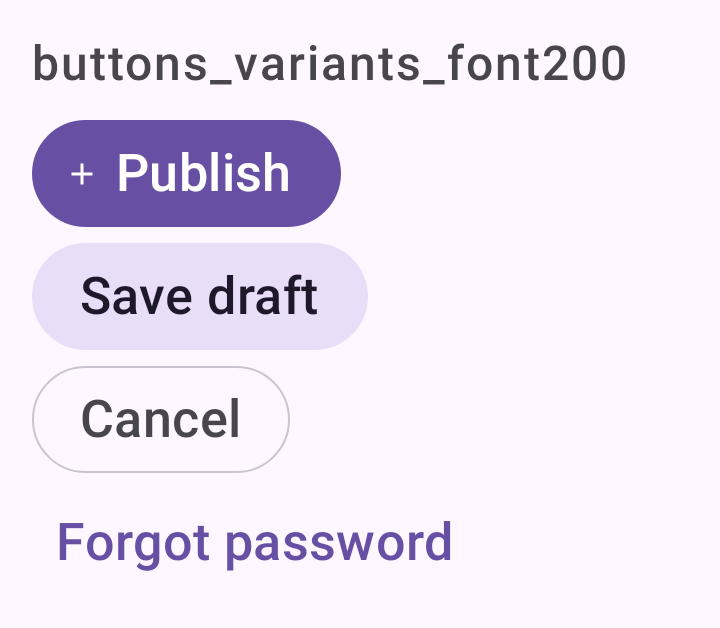
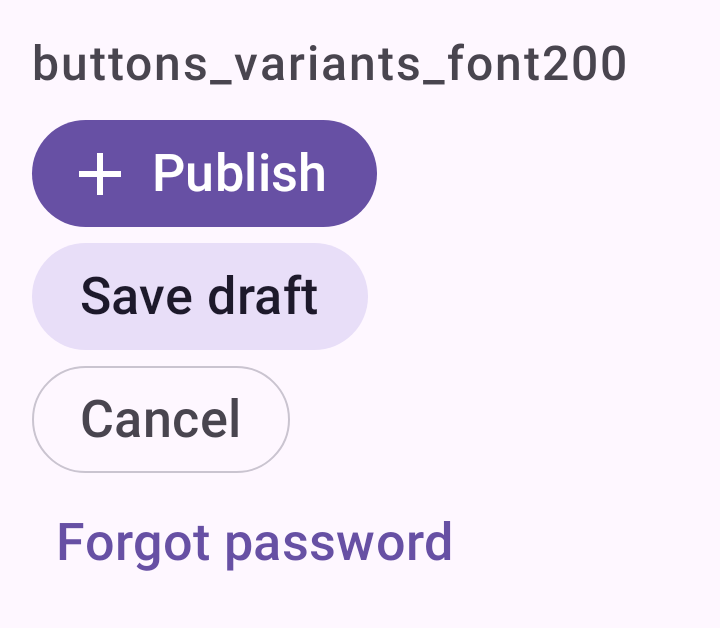
Release 0.1.5: diálogo com a ação segura em destaque e ícones de botão que crescem com a fonte

Changed region(s): [[0.0917, 0.1815, 0.55, 0.3631]]

diff --git a/components/src/main/kotlin/io/github/romulomga/dskit/overlays/DSAlertDialog.kt b/components/src/main/kotlin/io/github/romulomga/dskit/overlays/DSAlertDialog.kt
@@ -1,11 +1,17 @@
 package io.github.romulomga.dskit
 
+import androidx.compose.foundation.layout.Arrangement
+import androidx.compose.foundation.layout.Column
+import androidx.compose.foundation.layout.fillMaxWidth
+import androidx.compose.foundation.rememberScrollState
+import androidx.compose.foundation.verticalScroll
 import androidx.compose.material3.AlertDialog
 import androidx.compose.material3.Icon
 import androidx.compose.material3.Text
 import androidx.compose.runtime.Composable
 import androidx.compose.ui.Modifier
 import androidx.compose.ui.graphics.vector.ImageVector
+import androidx.compose.ui.platform.LocalDensity
 
 /**
  * Diálogo de alerta do Material 3: título, mensagem opcional, a ação de confirmar e, se houver, a de
@@ -16,8 +22,15 @@ import androidx.compose.ui.graphics.vector.ImageVector
  * Quem chama controla a visibilidade: mostre o diálogo enquanto um estado estiver ligado e desligue-o em
  * [onDismissRequest] e depois de [onConfirm].
  *
+ * A mensagem rola se não couber. Os botões ficam lado a lado; com a confirmação em destaque, ou com fonte grande
+ * (a partir de 150%), vão empilhados em largura cheia, a confirmação em cima, para nenhum sair cortado.
+ *
  * @param destructive pinta a confirmação na cor de erro ("Excluir", "Sair da conta").
  * @param dismissText rótulo de cancelar; `null` deixa só a confirmação.
+ * @param onDismiss o que o botão de cancelar faz; por padrão, o mesmo que tocar fora ([onDismissRequest]). Separe
+ *   os dois quando tocar fora deve ser a escolha segura e o botão de cancelar não ("Continuar no alerta" confirma
+ *   e é o padrão; "Fechar" é o botão de baixo).
+ * @param emphasizeConfirm a confirmação vira um botão cheio, a ação principal: use quando ela é a escolha segura.
  * @param icon ícone opcional acima do título, que então fica centralizado.
  */
 @Composable
@@ -30,29 +43,46 @@ public fun DSAlertDialog(
     message: String? = null,
     dismissText: String? = null,
     icon: ImageVector? = null,
-    destructive: Boolean = false
+    destructive: Boolean = false,
+    onDismiss: () -> Unit = onDismissRequest,
+    emphasizeConfirm: Boolean = false
 ) {
     val haptics = rememberDSHaptics()
+    val stacked = emphasizeConfirm || LocalDensity.current.fontScale >= StackedFontScale
+    val confirm: () -> Unit = {
+        if (destructive) haptics.warning()
+        onConfirm()
+    }
 
     AlertDialog(
         onDismissRequest = onDismissRequest,
         modifier = modifier,
         confirmButton = {
-            DSTextButton(
-                text = confirmText,
-                onClick = {
-                    if (destructive) haptics.warning()
-                    onConfirm()
-                },
-                destructive = destructive
-            )
+            if (stacked) {
+                Column(modifier = Modifier.fillMaxWidth(), verticalArrangement = Arrangement.spacedBy(DSSpacing.xs)) {
+                    if (emphasizeConfirm) {
+                        DSButton(confirmText, onClick = confirm, modifier = Modifier.fillMaxWidth(), destructive = destructive)
+                    } else {
+                        DSTextButton(confirmText, onClick = confirm, modifier = Modifier.fillMaxWidth(), destructive = destructive)
+                    }
+
+                    if (dismissText != null) {
+                        DSTextButton(dismissText, onClick = onDismiss, modifier = Modifier.fillMaxWidth())
+                    }
+                }
+            } else {
+                DSTextButton(text = confirmText, onClick = confirm, destructive = destructive)
+            }
         },
-        dismissButton = dismissText?.let { { DSTextButton(it, onClick = onDismissRequest) } },
+        dismissButton = if (stacked) null else dismissText?.let { { DSTextButton(it, onClick = onDismiss) } },
         icon = icon?.let { { Icon(it, contentDescription = null) } },
         title = { Text(title) },
-        text = message?.let { { Text(it) } }
+        text = message?.let { { Text(it, modifier = Modifier.verticalScroll(rememberScrollState())) } }
     )
 }
+
+/** A partir desta escala de fonte os botões do diálogo empilham. */
+private const val StackedFontScale = 1.5f
 
 @DSPreviews
 @Composable
@@ -65,6 +95,23 @@ private fun DSAlertDialogPreview() {
             dismissText = "Cancel",
             destructive = true,
             onConfirm = {},
+            onDismissRequest = {}
+        )
+    }
+}
+
+@DSPreviews
+@Composable
+private fun DSAlertDialogEmphasisPreview() {
+    DSPreviewContainer("Alert dialog, safe action emphasized") {
+        DSAlertDialog(
+            title = "Close the alert?",
+            message = "If you haven't sent it yet, nobody knows.",
+            confirmText = "Keep the alert",
+            dismissText = "I'm fine, close",
+            emphasizeConfirm = true,
+            onConfirm = {},
+            onDismiss = {},
             onDismissRequest = {}
         )
     }

diff --git a/components/src/main/kotlin/io/github/romulomga/dskit/buttons/DSButton.kt b/components/src/main/kotlin/io/github/romulomga/dskit/buttons/DSButton.kt
@@ -23,6 +23,7 @@ import androidx.compose.ui.Alignment
 import androidx.compose.ui.Modifier
 import androidx.compose.ui.draw.alpha
 import androidx.compose.ui.graphics.vector.ImageVector
+import androidx.compose.ui.platform.LocalDensity
 import androidx.compose.ui.res.stringResource
 import androidx.compose.ui.semantics.disabled
 import androidx.compose.ui.semantics.semantics
@@ -175,13 +176,18 @@ public fun DSTextButton(
     }
 }
 
-/** Texto e ícone; carregando, ficam invisíveis (guardam a largura) sob o indicador. */
+/**
+ * Texto e ícone; carregando, ficam invisíveis (guardam a largura) sob o indicador. O ícone cresce com a fonte, até o
+ * dobro, para não ficar miúdo ao lado de um texto grande.
+ */
 @Composable
 private fun ButtonContent(text: String, icon: ImageVector?, loading: Boolean) {
+    val iconSize = ButtonDefaults.IconSize * LocalDensity.current.fontScale.coerceIn(1f, MaxIconScale)
+
     Box(contentAlignment = Alignment.Center) {
         Row(modifier = Modifier.alpha(if (loading) 0f else 1f), verticalAlignment = Alignment.CenterVertically) {
             if (icon != null) {
-                Icon(icon, contentDescription = null, modifier = Modifier.size(ButtonDefaults.IconSize))
+                Icon(icon, contentDescription = null, modifier = Modifier.size(iconSize))
 
                 Spacer(Modifier.width(ButtonDefaults.IconSpacing))
             }
@@ -198,6 +204,8 @@ private fun ButtonContent(text: String, icon: ImageVector?, loading: Boolean) {
         }
     }
 }
+
+private const val MaxIconScale = 2f
 
 private fun contentPadding(icon: ImageVector?): PaddingValues =
     if (icon == null) ButtonDefaults.ContentPadding else ButtonDefaults.ButtonWithIconContentPadding

diff --git a/components/src/test/kotlin/io/github/romulomga/dskit/DialogScreenshotTest.kt b/components/src/test/kotlin/io/github/romulomga/dskit/DialogScreenshotTest.kt
@@ -38,6 +38,12 @@ class DialogScreenshotTest : ScreenshotTestBase() {
     fun alertDialogDark() = screen("overlays_alert_dialog_dark", dark = true) { Alert() }
 
     @Test
+    fun alertDialogEmphasizedLight() = screen("overlays_alert_dialog_emphasized_light", dark = false) { EmphasizedAlert() }
+
+    @Test
+    fun alertDialogEmphasizedDark() = screen("overlays_alert_dialog_emphasized_dark", dark = true) { EmphasizedAlert() }
+
+    @Test
     fun bottomSheetLight() = screen("overlays_bottom_sheet_light", dark = false) { Sheet() }
 
     @Test
@@ -90,6 +96,20 @@ class DialogScreenshotTest : ScreenshotTestBase() {
             dismissText = "Cancel",
             destructive = true,
             onConfirm = {},
+            onDismissRequest = {}
+        )
+    }
+
+    @Composable
+    private fun EmphasizedAlert() {
+        DSAlertDialog(
+            title = "Close the alert?",
+            message = "If you haven't sent it yet, nobody knows.",
+            confirmText = "Keep the alert",
+            dismissText = "I'm fine, close",
+            emphasizeConfirm = true,
+            onConfirm = {},
+            onDismiss = {},
             onDismissRequest = {}
         )
     }

diff --git a/components/src/test/kotlin/io/github/romulomga/dskit/BehaviorTest.kt b/components/src/test/kotlin/io/github/romulomga/dskit/BehaviorTest.kt
@@ -63,6 +63,31 @@ class BehaviorTest {
     }
 
     @Test
+    fun alertDialogDismissButtonRunsOnDismissNotTheOutsideTap() {
+        var dismissed = 0
+        var outside = 0
+
+        composeRule.setContent {
+            DSTheme {
+                DSAlertDialog(
+                    title = "Close the alert?",
+                    confirmText = "Keep the alert",
+                    dismissText = "I'm fine, close",
+                    emphasizeConfirm = true,
+                    onConfirm = {},
+                    onDismiss = { dismissed++ },
+                    onDismissRequest = { outside++ }
+                )
+            }
+        }
+
+        composeRule.onNodeWithText("I'm fine, close").performClick()
+
+        assertEquals(1, dismissed)
+        assertEquals(0, outside)
+    }
+
+    @Test
     fun textLinkWithABlockedSchemeIsPlainText() {
         composeRule.setContent {
             DSTheme {

diff --git a/CHANGELOG.md b/CHANGELOG.md
@@ -6,6 +6,21 @@ quebra vem descrita aqui com o código de migração.
 
 ## [Não lançado]
 
+## [0.1.5] - 2026-11-01
+
+### Adicionado
+
+- `DSAlertDialog(emphasizeConfirm)`: a confirmação vira um botão cheio quando ela é a escolha segura ("Continuar no
+  alerta"), com os botões empilhados em largura cheia.
+- `DSAlertDialog(onDismiss)`: o botão de cancelar pode fazer outra coisa que não o toque fora do diálogo. Sem ele,
+  continua igual a `onDismissRequest`.
+
+### Mudado
+
+- Os ícones dos botões crescem com a fonte do sistema, até o dobro, em vez de ficarem fixos em 18dp.
+- `DSAlertDialog`: a mensagem rola se não couber, e com fonte a partir de 150% os botões empilham em largura cheia,
+  a confirmação em cima.
+
 ## [0.1.4] - 2026-10-31
 
 ### Adicionado
